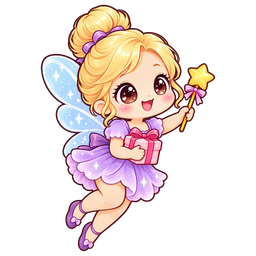
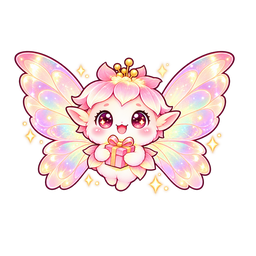
v0.9.37 날아가는 펫(뿌잉·비둘기·선물 요정)을 오른쪽 위로 솟구치는 3/4 구도로, 왼쪽으로 날 땐 반전 / 선물 요정을 요정 정령으로 새 디자인 (Codex)

diff --git a/index.html b/index.html
@@ -1559,7 +1559,7 @@
   const elTitle = document.getElementById("overTitle");
   const coinNote = document.getElementById("coinNote");
 
-  const GAME_VERSION = "v0.9.36";
+  const GAME_VERSION = "v0.9.37";
   /* 제작사 스플래시(bamhobak friends 로고) — 2026-09-20 끔. 다시 켜려면 true */
   const SPLASH_USE = false;   // 코드를 고칠 때마다 뒤 두 자리를 올린다
   document.getElementById("ver").textContent = GAME_VERSION;
@@ -1611,23 +1611,27 @@
   function spdMul() { return vsLike() ? VS_MOVE : job === "levitator" ? 2.5 : 1; }
   /* 평화의 비둘기 — 활짝 펼친 날개에 깃 모양이 물결치고, 꼬리는 부채처럼 갈라진다.
      (흰 실루엣 한 덩어리로 그려야 작게 그려도 비둘기로 읽힌다) */
-  function drawDove(x, y, ph, target) {
+  function drawDove(x, y, ph, target, hdir) {
     const S = 15 * doveMul();
     const flap = Math.sin(ph);                       // -1 ~ 1
+    const doveImg = doveImgNow();
+    if (doveImg) {                                   // v0.9.37 오른쪽 위로 솟구치는 3/4 정면 — 과녁(또는 hdir) 쪽이 왼쪽이면 뒤집는다
+      ctx.save();
+      ctx.translate(x, y);
+      const dx = target ? target.x - x : (hdir || 1), dy = target ? target.y - y : -1;
+      const dir = dx < 0 ? -1 : 1;
+      ctx.scale(dir, 1);
+      ctx.rotate(Math.max(-0.6, Math.min(0.9, (Math.atan2(Math.abs(dx), -dy) - 0.44) * 0.8)));
+      const h = S * 3.2, w = h * (doveImg.width / doveImg.height);
+      ctx.scale(1, 1 - Math.abs(flap) * 0.12);       // 날갯짓처럼 살짝 눌린다
+      ctx.drawImage(doveImg, -w / 2, -h / 2, w, h);
+      ctx.restore();
+      return;
+    }
     ctx.save();
     ctx.translate(x, y);
     const ang = target ? Math.atan2(target.y - y, target.x - x) + Math.PI / 2 : 0;
     ctx.rotate(ang);
-    // 오른쪽으로 날아갈 때는 좌우를 뒤집어 준다
-    const mirror = target && target.x > x ? -1 : 1;
-    const doveImg = doveImgNow();
-    if (doveImg) {                                   // 그림이 있으면 그걸 쓴다
-      const h = S * 3.12, w = h * (doveImg.width / doveImg.height);   // 예전 2.6 에서 1.2배
-      ctx.scale(mirror, 1 - Math.abs(flap) * 0.14);  // 날갯짓처럼 살짝 눌린다
-      ctx.drawImage(doveImg, -w / 2, -h * 0.52, w, h);
-      ctx.restore();
-      return;
-    }
     ctx.fillStyle = "#ffffff";
     ctx.shadowColor = "rgba(0,0,0,.25)";
     ctx.shadowBlur = 4;
@@ -2420,6 +2424,12 @@
   const HELPER_ASPECT = 0.714;   // 이미지 가로/세로
   const HELPER_ASPECT_SPACE = 0.657;
   function helperPic()    { return (inSpace() && helperSpaceImg) ? helperSpaceImg : helperImg; }
+  /* v0.9.37 날아가는 모습 — 예전 정연핑 구도(위로 솟구치며 몸이 오른쪽으로 25°쯤 기운 3/4 정면, Codex). 왼쪽으로 갈 땐 뒤집는다 */
+  let helperSide = null, helperSideS = null;
+  { const a = new Image(); a.onload = () => { helperSide = a; }; a.src = "assets/hamster_fly.png";
+    const b = new Image(); b.onload = () => { helperSideS = b; }; b.src = "assets/space_hamster_fly.png"; }
+  function helperSidePic() { return (inSpace() && helperSideS) ? helperSideS : helperSide; }
+  const HELPER_SIDE_H = 96;
   function helperAspect() { return (inSpace() && helperSpaceImg) ? HELPER_ASPECT_SPACE : HELPER_ASPECT; }
   const HELPER_H = 99;           // 화면에 그릴 높이 (110에서 10% 축소)
   const HELPER_R = 39;           // v0.9.31 43 → 39 (피지컬 쪽으로 — 똥 없애는 증강 살짝 너프)           // 똥을 부수는 반경 (48 → 43, 면적 20% 감소)
@@ -2523,10 +2533,12 @@
   }
   function feverSkyFor(zi) { return FEVER_SKY[zi <= 2 ? 0 : zi <= 5 ? 1 : zi <= 9 ? 2 : zi <= 12 ? 3 : 4]; }
   // 비둘기 펫 그림 (없으면 아래 도안으로 그린다)
-  let doveImgG = null, doveImgS = null, fairyImgS = null;   // v0.9.35 우주 구간엔 우주복 입은 비둘기·선물 요정 (Codex)
-  { const di = new Image(); di.onload = () => { doveImgG = di; }; di.src = "assets/dove.png"; }
-  { const di = new Image(); di.onload = () => { doveImgS = di; }; di.src = "assets/dove_space.png"; }
-  { const fi = new Image(); fi.onload = () => { fairyImgS = fi; }; fi.src = "assets/pet_fairy_space.png"; }
+  let doveImgG = null, doveImgS = null, fairyImgS = null, fairyImgG = null;   // v0.9.35 우주 구간엔 우주복 입은 비둘기·선물 요정 (Codex)
+  /* v0.9.37 날아가는 비둘기·선물 요정은 오른쪽을 보는 옆모습 — 왼쪽으로 갈 땐 뒤집는다 (카드는 정면 그림 그대로) */
+  { const di = new Image(); di.onload = () => { doveImgG = di; }; di.src = "assets/dove_fly.png"; }
+  { const di = new Image(); di.onload = () => { doveImgS = di; }; di.src = "assets/dove_space_fly.png"; }
+  { const fi = new Image(); fi.onload = () => { fairyImgG = fi; }; fi.src = "assets/pet_fairy_fly.png"; }
+  { const fi = new Image(); fi.onload = () => { fairyImgS = fi; }; fi.src = "assets/pet_fairy_space_fly.png"; }
   function doveImgNow() { return (inSpace() && doveImgS) ? doveImgS : doveImgG; }
 
   /* 캔버스 필터(ctx.filter)가 실제로 먹는지 — 사파리(아이폰)에는 아예 없다.
@@ -2798,11 +2810,9 @@
       ctx.save();
       ctx.translate(c.x, c.y);
       if (c.kind === "helper") {
-        const pic = helperPic();
-        if (pic) {
-          const hh = HELPER_H, hw = hh * helperAspect();
-          ctx.drawImage(pic, -hw / 2, -hh / 2, hw, hh);
-        }
+        ctx.restore();
+        drawHelperAt(c.x, c.y, c.vx, c.vy);     // v0.9.37 옆모습
+        continue;
       } else {
         ctx.rotate(c.rot);
         const fp = snackPic(c);
@@ -10042,7 +10052,7 @@
       }
       ctx.restore();
     }
-    for (const pg of vsPigeons) drawDove(pg.x, pg.y + Math.sin(pg.ph) * 4, pg.ph, null);
+    for (const pg of vsPigeons) drawDove(pg.x, pg.y + Math.sin(pg.ph) * 4, pg.ph, null, pg.dir);
   }
 
   /* ---------- 빠른 대전 · 기록 대전 (v0.8.33) ----------
@@ -11052,7 +11062,7 @@
       }
       ctx.restore();
     }
-    for (const pg of vsPigeons) drawDove(pg.x, pg.y + Math.sin(pg.ph) * 4, pg.ph, null);
+    for (const pg of vsPigeons) drawDove(pg.x, pg.y + Math.sin(pg.ph) * 4, pg.ph, null, pg.dir);
   }
   // 위쪽 글자판 아래 — 내가 가진 증강 (횟수제는 남은 횟수)
   function drawPaHud(y) {
@@ -13759,14 +13769,23 @@
     ctx.restore();
   }
 
-  // 원본 그림이 '오른쪽 → 왼쪽' 방향이라, 왼쪽 → 오른쪽으로 날 때만 좌우를 뒤집는다
+  // v0.9.37 옆모습(오른쪽을 봄) — 진행 방향으로 머리를 돌리고, 왼쪽으로 갈 땐 좌우를 뒤집는다
   function drawHelperAt(x, y, vx, vy) {
-    const hh = HELPER_H * helperScale(), hw = hh * helperAspect();
+    const pic = helperSidePic();
     ctx.save();
     ctx.translate(x, y);
-    ctx.rotate(Math.atan2(vx, -vy) * 0.8);   // 진행 방향으로 기울이기
-    if (vx > 0) ctx.scale(-1, 1);            // 오른쪽으로 갈 때 반전
-    ctx.drawImage(helperPic(), -hw / 2, -hh / 2, hw, hh);
+    if (!pic) {                               // 옆모습이 아직이면 정면 그림
+      const hh = HELPER_H * helperScale(), hw = hh * helperAspect();
+      ctx.rotate(Math.atan2(vx, -vy) * 0.8);
+      ctx.drawImage(helperPic(), -hw / 2, -hh / 2, hw, hh);
+      ctx.restore(); return;
+    }
+    const hh = HELPER_SIDE_H * helperScale(), hw = hh * pic.width / pic.height;
+    const dir = vx < 0 ? -1 : 1;
+    ctx.scale(dir, 1);
+    // 그림이 이미 오른쪽 위(약 25°)로 기울어 있으니 진행 방향과의 차이만 조금 더 돌린다
+    ctx.rotate(Math.max(-0.6, Math.min(0.6, (Math.atan2(Math.abs(vx), -vy) - 0.44) * 0.8)));
+    ctx.drawImage(pic, -hw / 2, -hh / 2, hw, hh);
     ctx.restore();
   }
 
@@ -13848,9 +13867,11 @@
       ctx.save();
       ctx.globalAlpha = a;
       ctx.translate(f.x, f.y + Math.sin(f.ph) * 3);
-      if (f.fl === false) ctx.scale(-1, 1);
+      if (f.fl === false) ctx.scale(-1, 1);          // 옆모습은 오른쪽을 본다 — 왼쪽으로 갈 때만 뒤집는다
       ctx.shadowColor = "#ffc2ec"; ctx.shadowBlur = 14;
-      ctx.drawImage((inSpace() && fairyImgS) ? fairyImgS : PET_IMG.gift, -sz / 2, -sz / 2, sz, sz);
+      const fim = (inSpace() && fairyImgS) ? fairyImgS : (fairyImgG || PET_IMG.gift);
+      const fw = sz * 1.1 * Math.sqrt(fim.width / fim.height), fh = fw * fim.height / fim.width;
+      ctx.drawImage(fim, -fw / 2, -fh / 2, fw, fh);
       ctx.restore();
       if (f.st === 0 && Math.random() < 0.5) particles.push({ x: f.x, y: f.y, vx: (Math.random() - .5) * 40, vy: 20,
         life: .4, t: 0, c: Math.random() < .5 ? "#ffd6f5" : "#fff3a8", r: 1.5 + Math.random() * 2 });

diff --git a/README.md b/README.md
@@ -5,7 +5,7 @@
 👉 **플레이: https://bamhobak.github.io/ddongpi/**
 
 > 이 문서는 `index.html` 의 실제 값을 옮겨 적은 것입니다. 숫자를 고쳤으면 여기도 같이 고쳐 주세요.
-> 마지막으로 맞춰 본 판: **v0.9.36**
+> 마지막으로 맞춰 본 판: **v0.9.37**
 
 ## ⚔ 대전모드 (v0.8.24 한 폰 · v0.8.25 두 폰)
 시작하기를 누르면 **[방 만들기] · [방 참가](방 번호 4자리) · [한 폰으로 둘이서]** 를 고릅니다.
